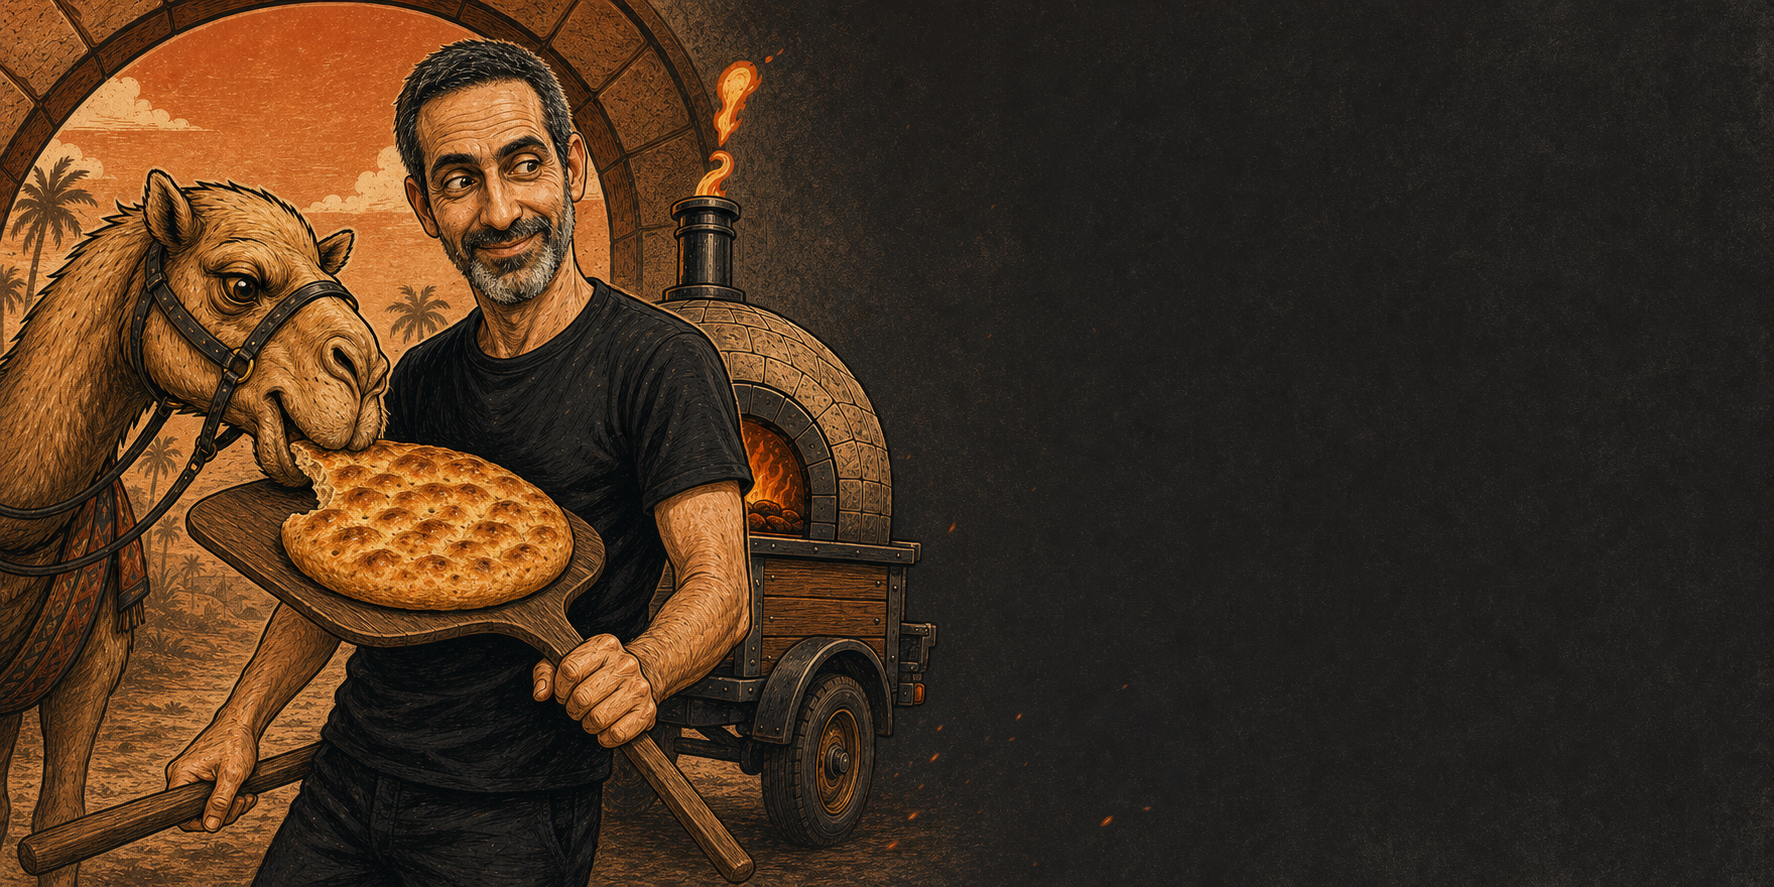
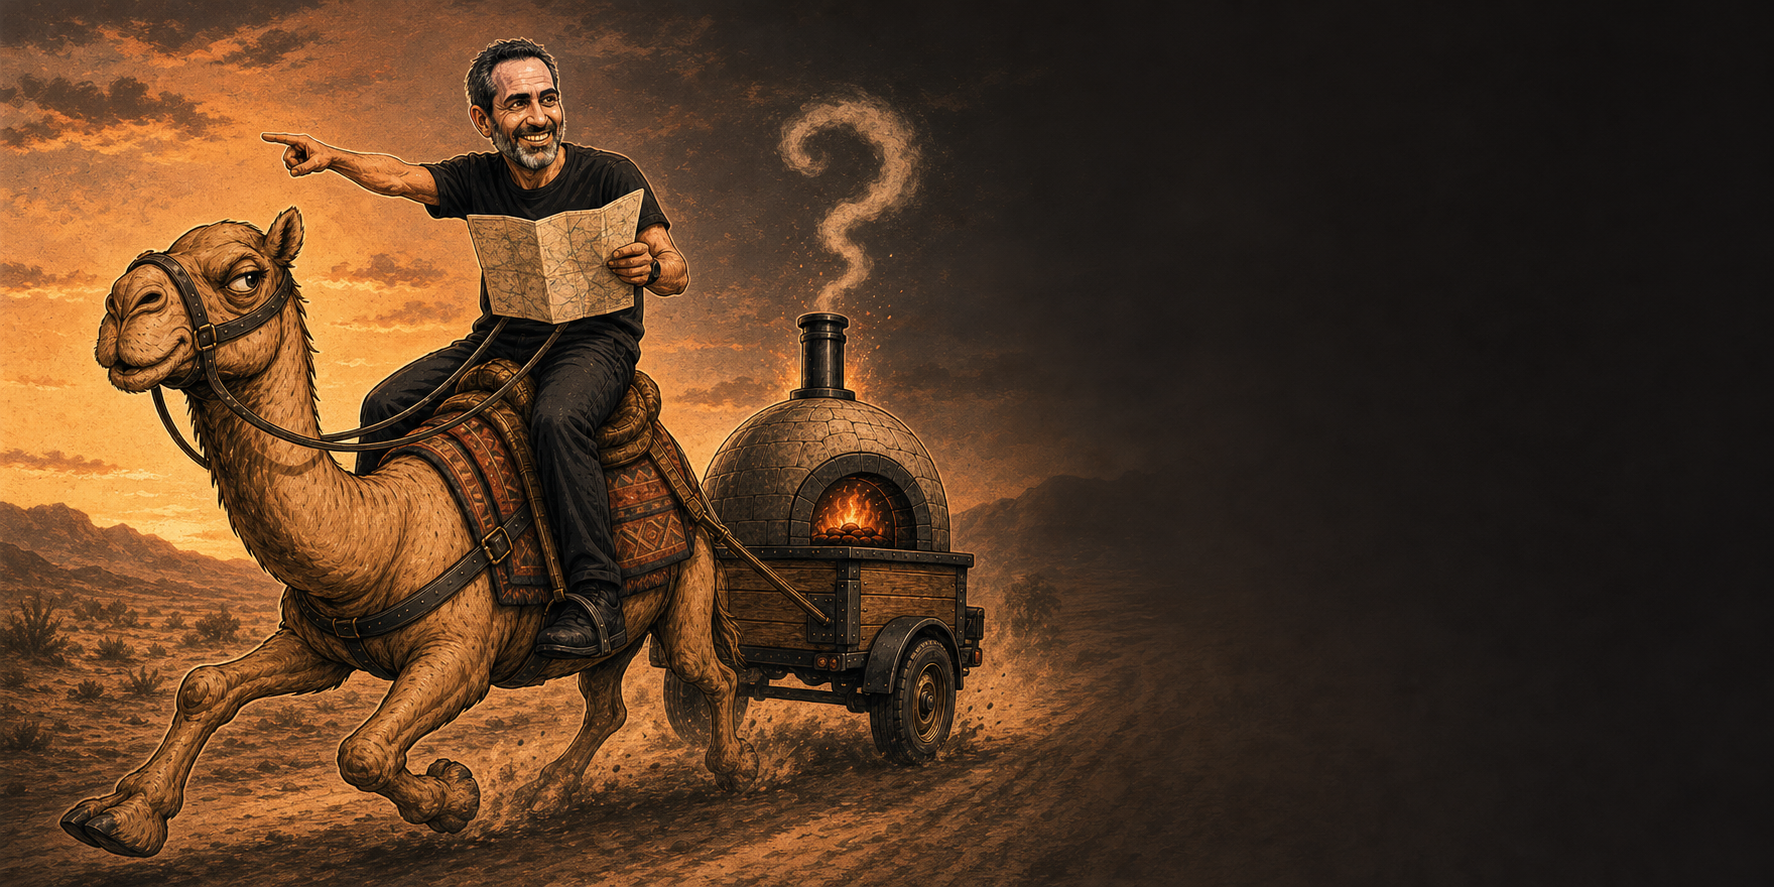
Replace arrival artwork with journey pair

diff --git a/app/globals.css b/app/globals.css
@@ -2669,36 +2669,29 @@ main::after {
     direction: rtl;
   }
   .events-heading {
-    min-height: clamp(560px, 142vw, 700px);
-    align-items: start;
+    min-height: 0;
+    aspect-ratio: 1672 / 941;
+    align-items: center;
     margin: 16px 0 0;
   }
   .events-heading::after {
-    background: linear-gradient(180deg, rgba(9, 8, 7, .98) 0%, rgba(9, 8, 7, .87) 24%, rgba(9, 8, 7, .28) 48%, transparent 66%);
+    background: linear-gradient(90deg, transparent 36%, rgba(9, 8, 7, .28) 53%, rgba(9, 8, 7, .88) 76%, rgba(9, 8, 7, .98));
   }
   .events-arrival-visual img { object-position: center; }
   .events-arrival-copy {
-    width: 100%;
-    min-height: 100%;
+    width: 49%;
+    min-height: 0;
     display: flex;
     align-items: flex-start;
-    justify-content: flex-start;
-    padding: 22px 17px;
+    justify-content: center;
+    justify-self: end;
+    padding: 10px 11px;
   }
-  .events-heading h2 { font-size: clamp(50px, 14vw, 68px); line-height: .88; }
-  .events-arrival-copy > p { max-width: 290px; margin-top: 12px; font-size: 13px; line-height: 1.5; }
+  .events-heading h2 { font-size: clamp(29px, 9vw, 40px); line-height: .86; }
+  .events-arrival-copy > p { max-width: 170px; margin-top: 8px; font-size: 9px; line-height: 1.4; }
   .events-forge-mark {
-    width: min(100%, 224px);
-    min-height: 68px;
-    grid-template-columns: 52px 1fr;
-    gap: 10px;
-    margin-bottom: 12px;
-    padding: 8px 11px;
-    box-shadow: inset 0 1px rgba(255, 255, 255, .05), inset 0 -3px rgba(255, 84, 27, .6), 6px 6px 0 rgba(0, 0, 0, .22), 0 0 24px rgba(255, 84, 27, .15);
+    display: none;
   }
-  .events-forge-mark img { max-height: 55px; }
-  .events-forge-mark b { font-size: 10px; }
-  .events-forge-mark small { font-size: 6px; }
   .ignition-climax > i:nth-of-type(n + 15) { display: none; }
   .events-grid {
     grid-template-columns: none;
